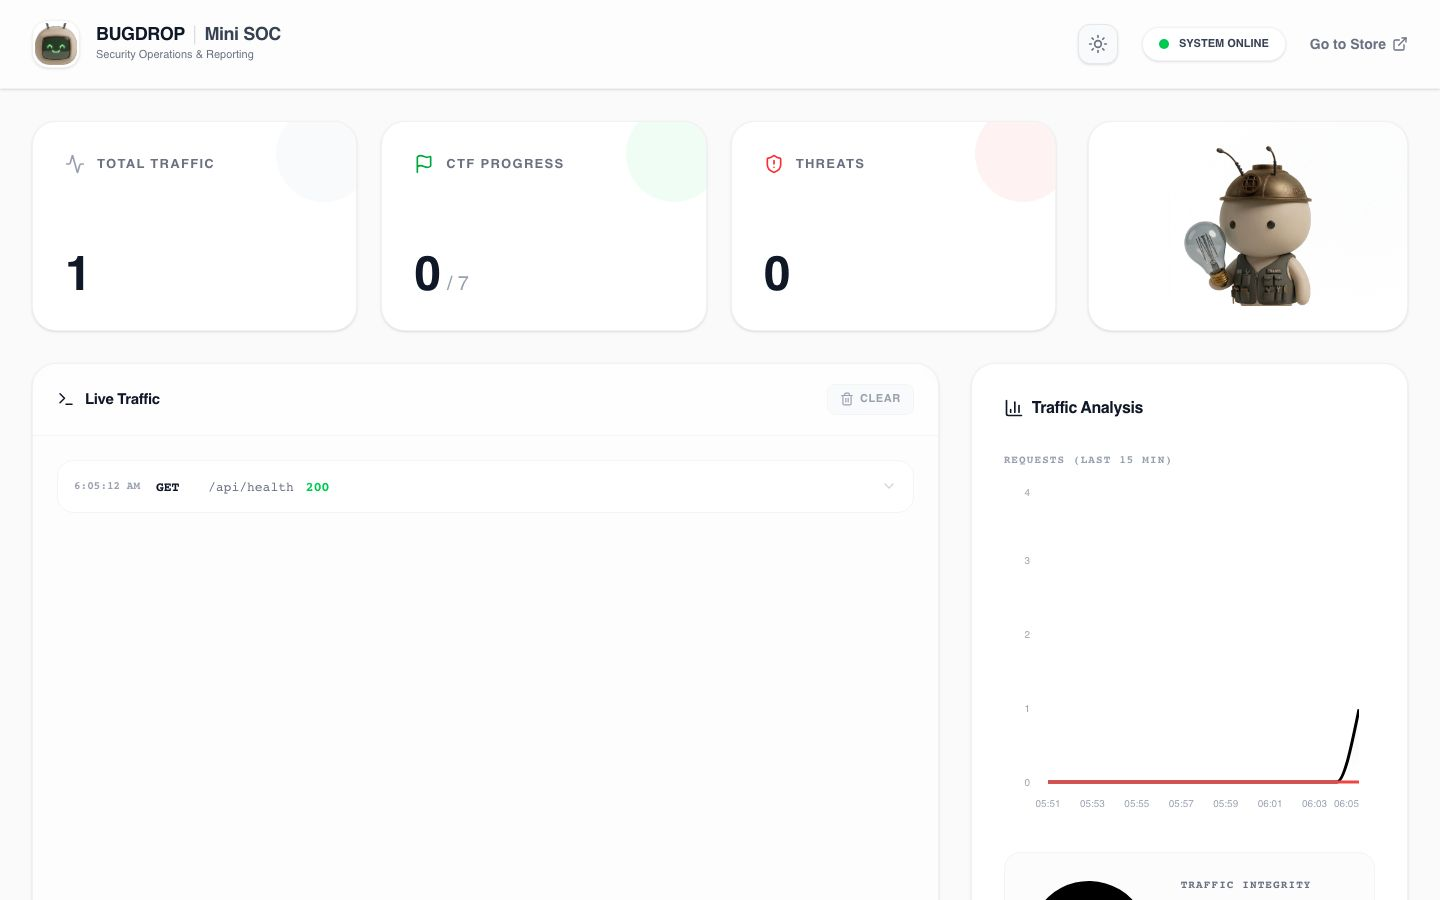
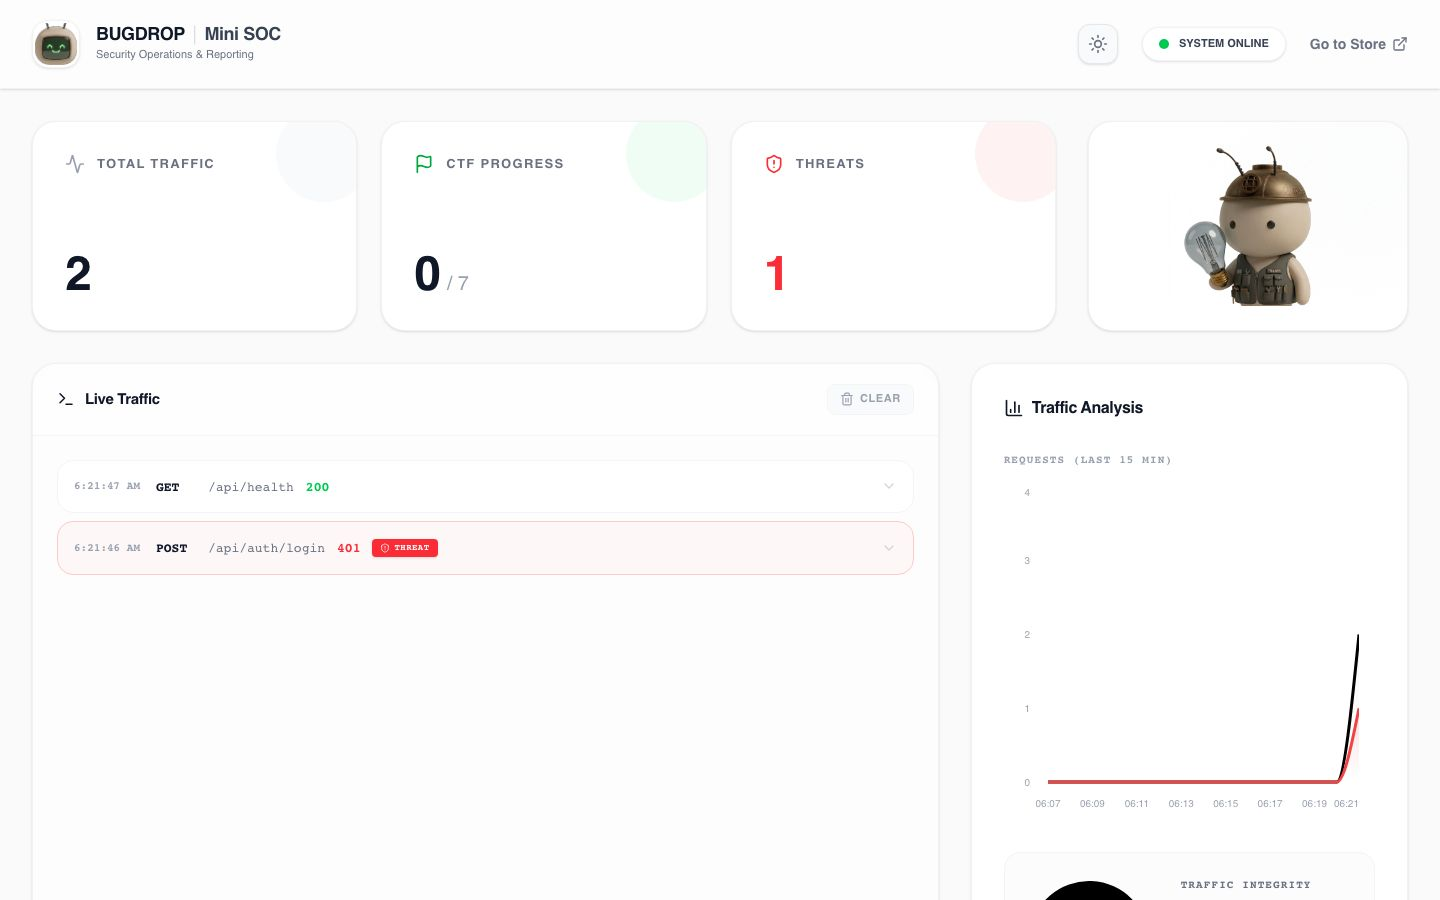
fix(final): screenshots and mailmap

diff --git a/tools/screenshots.js b/tools/screenshots.js
@@ -1,5 +1,8 @@
 const { chromium } = require('playwright');
 const fs = require('fs');
+const path = require('path');
+
+const ROOT = path.resolve(__dirname, '..');
 
 (async () => {
   const browser = await chromium.launch({ headless: true });
@@ -12,37 +15,54 @@ const fs = require('fs');
 
   console.log('Capturing shop.jpg...');
   await page.goto('http://localhost:5173/');
-  await page.waitForTimeout(2000);
-  await page.screenshot({ path: 'docs/screenshots/shop.jpg', type: 'jpeg', quality: 80 });
+  try {
+    await page.click('button:has-text("Got it")', { timeout: 3000 });
+  } catch (e) {
+    console.log('No Rules modal found or already closed.');
+  }
+  
+  // Verify catalog
+  const catalog = await page.$('.product-card');
+  if (!catalog) throw new Error("Catalog not found on shop.jpg");
+  await page.waitForTimeout(1000);
+  await page.screenshot({ path: path.join(ROOT, 'docs/screenshots/shop.jpg'), type: 'jpeg', quality: 80 });
 
   console.log('Capturing product.jpg...');
-  await page.goto('http://localhost:5173/product/1');
-  await page.waitForTimeout(2000);
-  await page.screenshot({ path: 'docs/screenshots/product.jpg', type: 'jpeg', quality: 80 });
+  await page.goto('http://localhost:5173/products/1');
+  try {
+    await page.click('button:has-text("Got it")', { timeout: 2000 });
+  } catch (e) {}
 
-  console.log('Triggering Price Tampering...');
-  await page.evaluate(async () => {
-    await fetch('http://localhost:3000/api/payment/checkout', {
-      method: 'POST',
-      headers: { 'Content-Type': 'application/json' },
-      body: JSON.stringify({ price: 0 })
-    }).catch(() => {});
-  });
-  
+  // Verify product title
+  const title = await page.$('h1');
+  const titleText = await title?.innerText();
+  if (!titleText || titleText.trim() === '') throw new Error("Product title not found on product.jpg");
   await page.waitForTimeout(1000);
+  await page.screenshot({ path: path.join(ROOT, 'docs/screenshots/product.jpg'), type: 'jpeg', quality: 80 });
 
   console.log('Capturing soc.jpg...');
   await page.goto('http://localhost:5174/');
-  await page.waitForTimeout(3000); // Wait for socket connection and logs to render
-  await page.screenshot({ path: 'docs/screenshots/soc.jpg', type: 'jpeg', quality: 80 });
+  await page.waitForTimeout(2000); // Wait for socket connection
+  
+  console.log('Triggering Price Tampering...');
+  await page.evaluate(async () => {
+    await fetch('http://localhost:3000/api/auth/login', {
+      method: 'POST',
+      headers: { 'Content-Type': 'application/json' },
+      body: JSON.stringify({ username: "a", password: "b", price: 0 })
+    }).catch(e => console.error(e));
+  });
+
+  await page.waitForTimeout(4000);
+  await page.screenshot({ path: path.join(ROOT, 'docs/screenshots/soc.jpg'), type: 'jpeg', quality: 80 });
 
   await browser.close();
   
   // Check sizes
   const stats = [
-    { file: 'shop.jpg', size: fs.statSync('docs/screenshots/shop.jpg').size },
-    { file: 'product.jpg', size: fs.statSync('docs/screenshots/product.jpg').size },
-    { file: 'soc.jpg', size: fs.statSync('docs/screenshots/soc.jpg').size },
+    { file: 'shop.jpg', size: fs.statSync(path.join(ROOT, 'docs/screenshots/shop.jpg')).size },
+    { file: 'product.jpg', size: fs.statSync(path.join(ROOT, 'docs/screenshots/product.jpg')).size },
+    { file: 'soc.jpg', size: fs.statSync(path.join(ROOT, 'docs/screenshots/soc.jpg')).size },
   ];
   
   let report = '';
@@ -51,8 +71,9 @@ const fs = require('fs');
     report += `${stat.file}: ${kb} KB\n`;
     if (stat.size > 250 * 1024) {
       console.error(`ERROR: ${stat.file} is larger than 250 KB!`);
+      process.exit(1);
     }
   }
-  fs.writeFileSync('evidence/screenshots_size.txt', report);
+  fs.writeFileSync(path.join(ROOT, 'evidence/screenshots_size.txt'), report);
   console.log('Done!');
 })();
